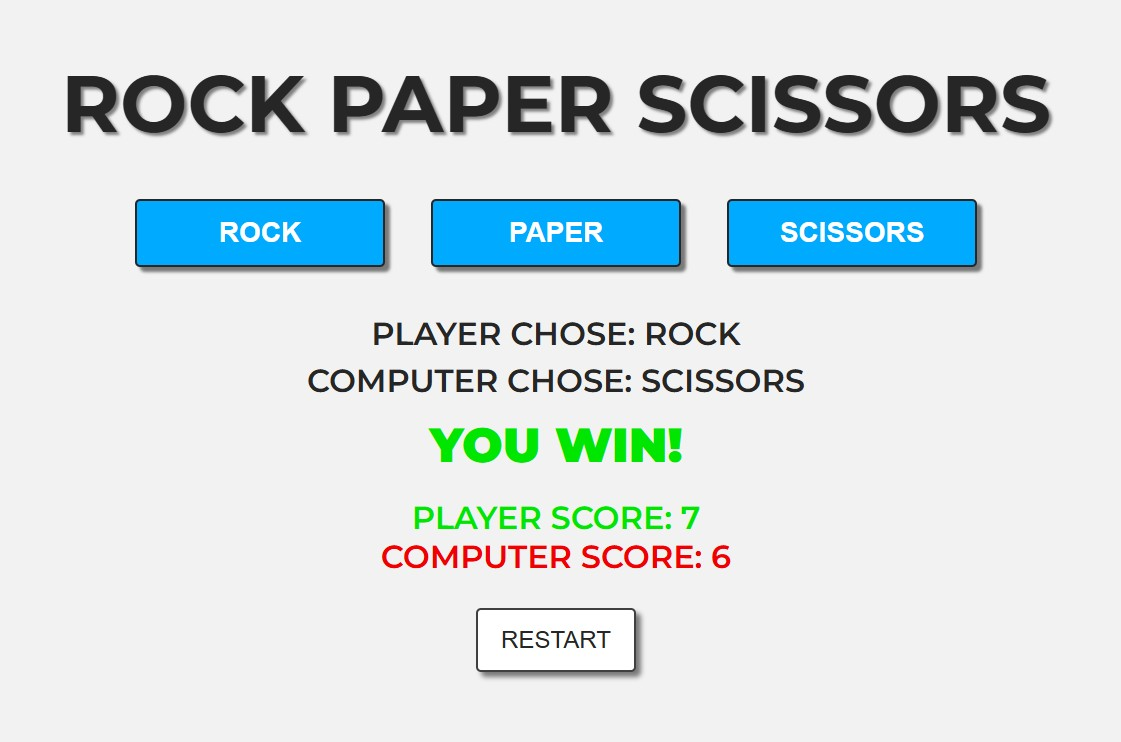
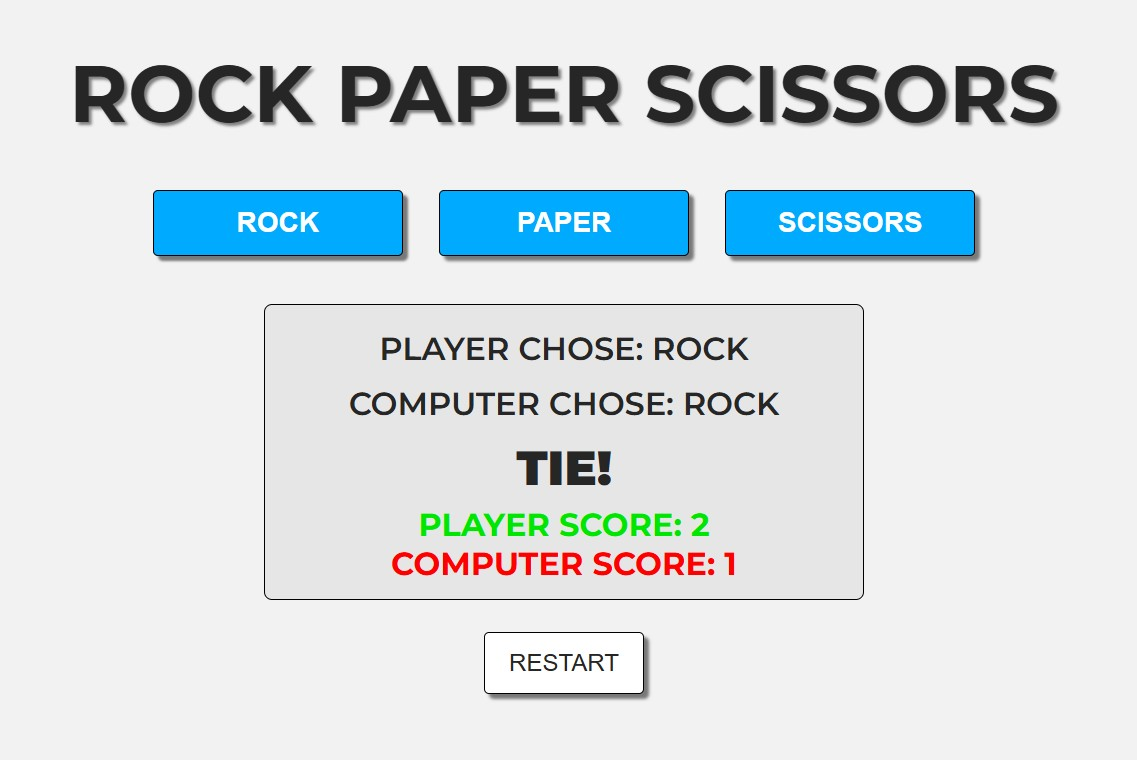
Formatted files

diff --git a/assets/css/style.css b/assets/css/style.css
@@ -1,29 +1,18 @@
-:root {
-  --red: rgb(240, 0, 0);
-  --dark: hsl(0, 0%, 15%);
-  --gray: hsl(0, 0%, 95%);
-  --blue: hsl(200, 100%, 50%);
-  --green: hsl(120, 100%, 45%);
-  --light-blue: hsl(200, 100%, 60%);
-}
-
 * {
   margin: 0;
   padding: 0;
   box-sizing: border-box;
-  /* border: 1px solid red; */
 }
 
 body {
   padding: 2rem;
   min-height: 100vh;
-  color: hsl(0, 0%, 15%);
   text-align: center;
+  color: hsl(0, 0%, 15%);
   background-color: hsl(0, 0%, 95%);
   font-family: "Montserrat", sans-serif;
   display: flex;
   align-items: center;
-  /* flex-direction: column; */
   justify-content: center;
 }
 
@@ -39,12 +28,7 @@ h1 {
 }
 
 .choicesContainer {
-  /* gap: 1rem; */
   margin-bottom: 2rem;
-  /* display: flex;
-  flex-wrap: wrap;
-  align-items: center;
-  justify-content: center; */
 }
 
 button {
@@ -69,20 +53,13 @@ button:hover {
 }
 
 #displayContainer {
-  padding: 1rem;
   width: 60%;
+  padding: 1rem;
   margin: 0 auto;
-  /* min-width: 80%; */
-  border: 1px solid black;
   border-radius: 8px;
+  border: 1px solid black;
   background-color: hsl(0, 0%, 90%);
 }
-
-/* #choiceDisplayContainer,
-#scoreDisplayContainer {
-  font-weight: 600;
-  font-size: clamp(1.25rem, 2vw, 2rem);
-} */
 
 #displayContainer {
   font-weight: 600;
@@ -113,16 +90,16 @@ button:hover {
 }
 
 #restartBtn {
+  margin: 2rem;
   cursor: pointer;
   min-width: 160px;
-  margin: 2rem;
   font-weight: 500;
   font-size: 1.5rem;
   border-radius: 5px;
   transition: 0.5s ease;
   color: hsl(0, 0%, 15%);
-  background-color: white;
   border: 1px solid black;
+  background-color: white;
   box-shadow: 5px 5px 3px hsla(0, 0%, 0%, 0.5);
 }
 
